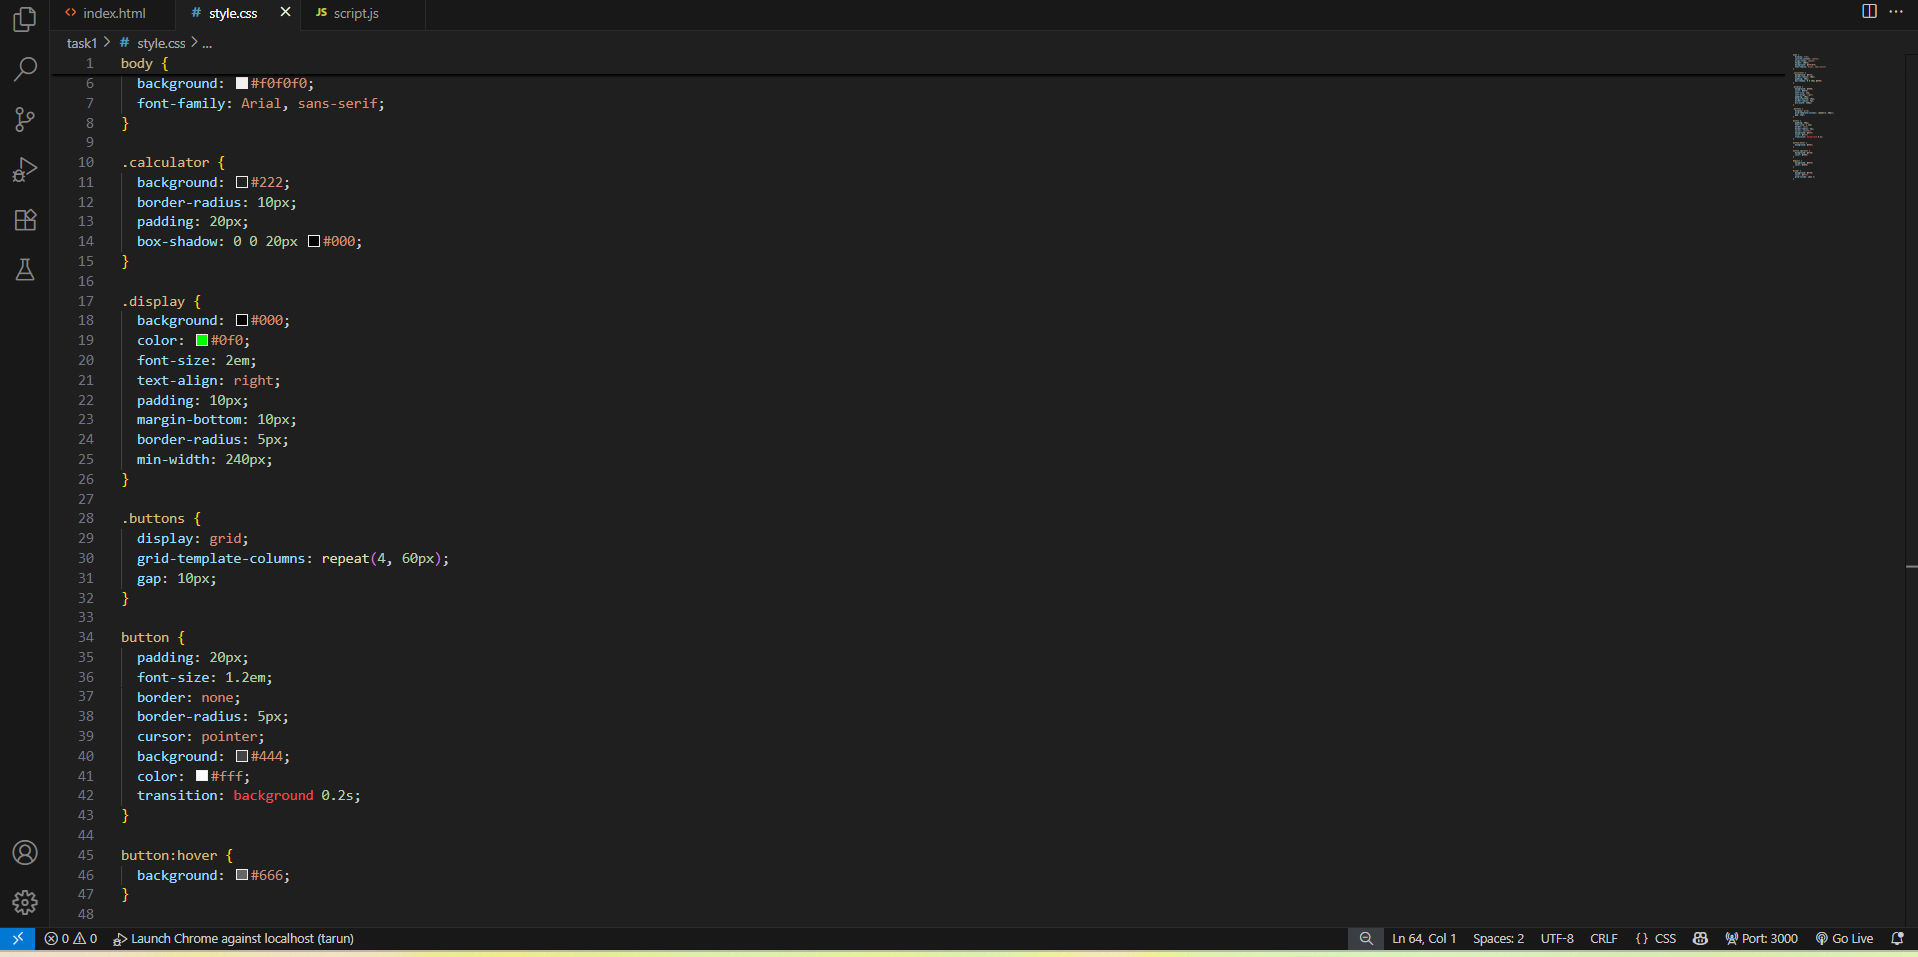
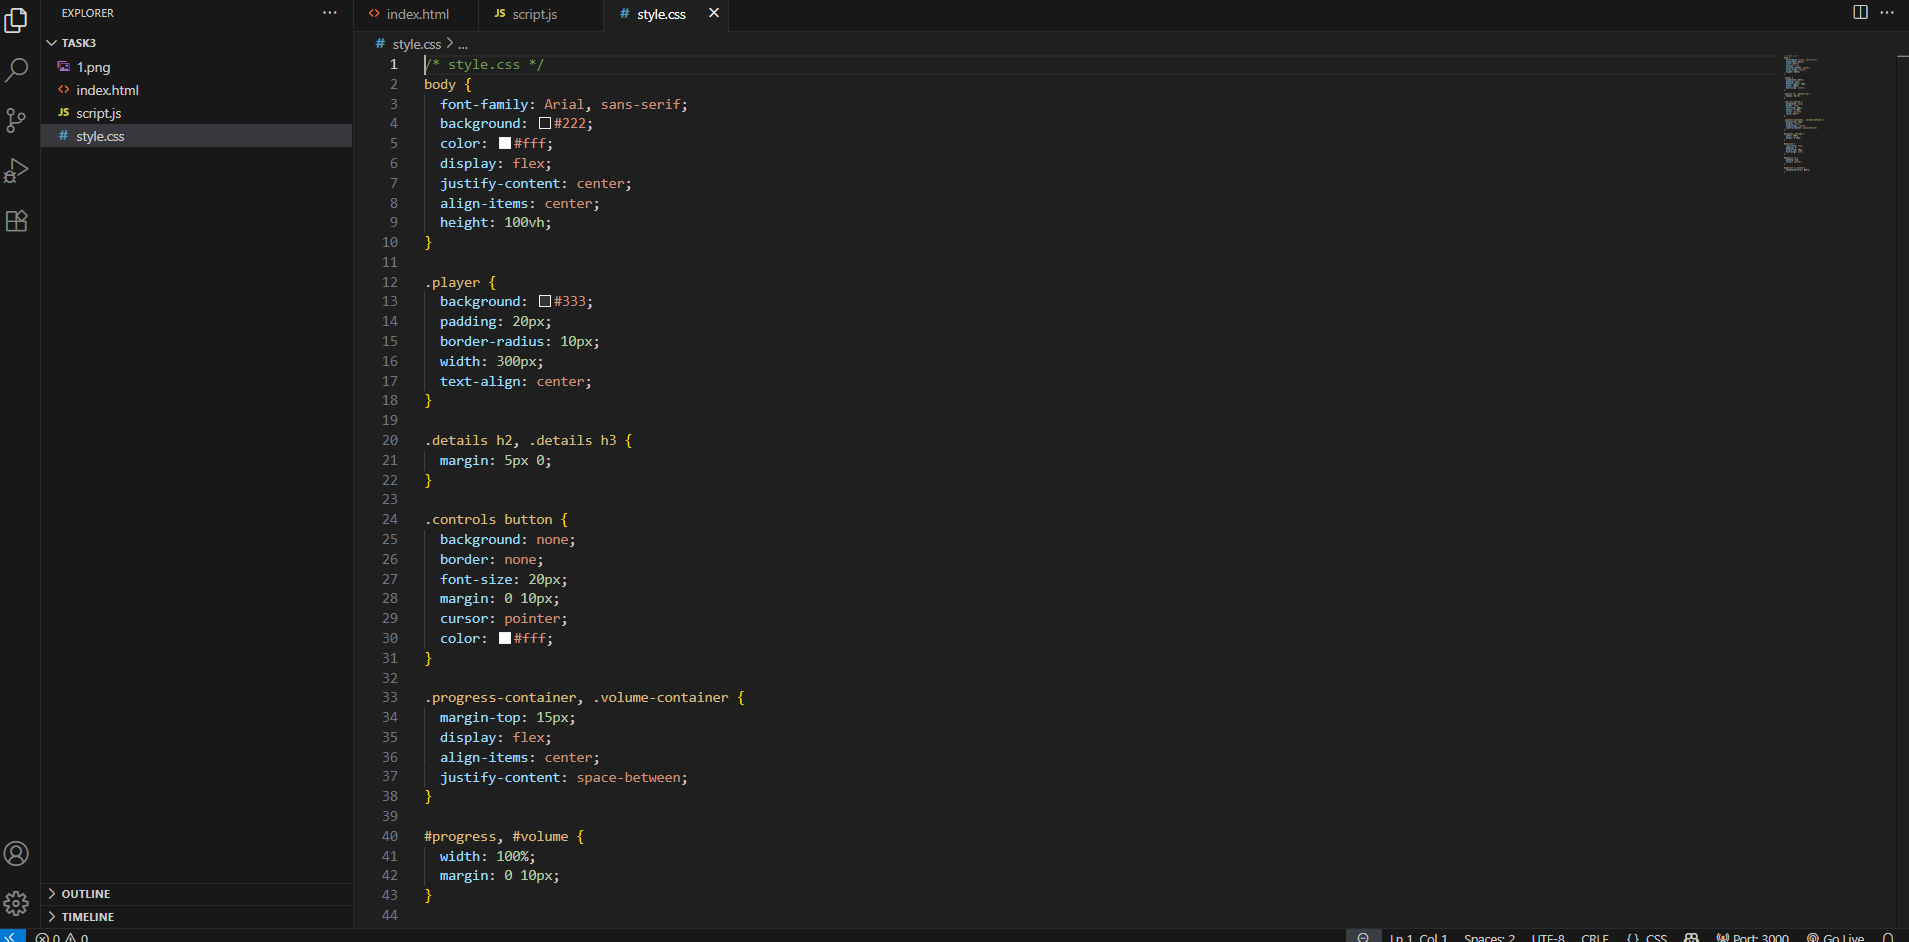
Add files via upload

diff --git a/script.js b/script.js
@@ -1,49 +1,127 @@
-const display = document.getElementById('display');
-const buttons = document.querySelectorAll('button[data-value]');
-const equals = document.getElementById('equals');
-const clear = document.getElementById('clear');
+// script.js
 
-buttons.forEach(button => {
-  button.addEventListener('click', () => {
-    const value = button.getAttribute('data-value');
-    if (display.innerText === '0' && value !== '.') {
-      display.innerText = value;
-    } else {
-      display.innerText += value;
-    }
+const audio = document.getElementById('audio');
+const playBtn = document.getElementById('play');
+const prevBtn = document.getElementById('prev');
+const nextBtn = document.getElementById('next');
+const title = document.getElementById('title');
+const artist = document.getElementById('artist');
+const progress = document.getElementById('progress');
+const volume = document.getElementById('volume');
+const currentTimeEl = document.getElementById('current-time');
+const durationEl = document.getElementById('duration');
+const playlistEl = document.getElementById('playlist');
+
+let songIndex = 0;
+
+const songs = [
+  {
+    title: 'Song 1',
+    artist: 'Artist 1',
+    src: 'songs/song1.mp3'
+  },
+  {
+    title: 'Song 2',
+    artist: 'Artist 2',
+    src: 'songs/song2.mp3'
+  },
+  {
+    title: 'Song 3',
+    artist: 'Artist 3',
+    src: 'songs/song3.mp3'
+  }
+];
+
+// Load song details
+function loadSong(index) {
+  const song = songs[index];
+  title.textContent = song.title;
+  artist.textContent = song.artist;
+  audio.src = song.src;
+  highlightActive(index);
+}
+
+// Play / Pause toggle
+function togglePlay() {
+  if (audio.paused) {
+    audio.play();
+    playBtn.textContent = '⏸';
+  } else {
+    audio.pause();
+    playBtn.textContent = '▶';
+  }
+}
+
+// Next song
+function nextSong() {
+  songIndex = (songIndex + 1) % songs.length;
+  loadSong(songIndex);
+  audio.play();
+}
+
+// Previous song
+function prevSong() {
+  songIndex = (songIndex - 1 + songs.length) % songs.length;
+  loadSong(songIndex);
+  audio.play();
+}
+
+// Update progress
+audio.addEventListener('timeupdate', () => {
+  const progressPercent = (audio.currentTime / audio.duration) * 100;
+  progress.value = progressPercent || 0;
+
+  currentTimeEl.textContent = formatTime(audio.currentTime);
+  durationEl.textContent = formatTime(audio.duration);
+});
+
+// Set progress
+progress.addEventListener('input', () => {
+  audio.currentTime = (progress.value * audio.duration) / 100;
+});
+
+// Volume control
+volume.addEventListener('input', () => {
+  audio.volume = volume.value;
+});
+
+// Format time
+function formatTime(sec) {
+  if (isNaN(sec)) return '0:00';
+  const minutes = Math.floor(sec / 60);
+  const seconds = Math.floor(sec % 60).toString().padStart(2, '0');
+  return `${minutes}:${seconds}`;
+}
+
+// Playlist
+function renderPlaylist() {
+  songs.forEach((song, index) => {
+    const li = document.createElement('li');
+    li.textContent = `${song.title} - ${song.artist}`;
+    li.addEventListener('click', () => {
+      songIndex = index;
+      loadSong(songIndex);
+      audio.play();
+    });
+    playlistEl.appendChild(li);
   });
-});
+}
 
-equals.addEventListener('click', () => {
-  try {
-    display.innerText = eval(display.innerText);
-  } catch {
-    display.innerText = 'Error';
-  }
-});
+function highlightActive(index) {
+  const items = playlistEl.querySelectorAll('li');
+  items.forEach((item, i) => {
+    item.classList.toggle('active', i === index);
+  });
+}
 
-clear.addEventListener('click', () => {
-  display.innerText = '0';
-});
+// Autoplay next
+audio.addEventListener('ended', nextSong);
 
-// BONUS: Keyboard support
-document.addEventListener('keydown', (e) => {
-  const key = e.key;
-  if ('0123456789.+-*/'.includes(key)) {
-    if (display.innerText === '0' && key !== '.') {
-      display.innerText = key;
-    } else {
-      display.innerText += key;
-    }
-  } else if (key === 'Enter') {
-    try {
-      display.innerText = eval(display.innerText);
-    } catch {
-      display.innerText = 'Error';
-    }
-  } else if (key === 'Backspace') {
-    display.innerText = display.innerText.slice(0, -1) || '0';
-  } else if (key === 'Escape') {
-    display.innerText = '0';
-  }
-});
+// Events
+playBtn.addEventListener('click', togglePlay);
+nextBtn.addEventListener('click', nextSong);
+prevBtn.addEventListener('click', prevSong);
+
+// Init
+loadSong(songIndex);
+renderPlaylist();

diff --git a/index.html b/index.html
@@ -1,37 +1,44 @@
+<!-- index.html -->
 <!DOCTYPE html>
 <html lang="en">
 <head>
   <meta charset="UTF-8" />
-  <title>Basic Calculator</title>
-  <link rel="stylesheet" href="style.css">
+  <meta name="viewport" content="width=device-width, initial-scale=1.0" />
+  <title>Music Player</title>
+  <link rel="stylesheet" href="style.css" />
 </head>
 <body>
-  <div class="calculator">
-    <div class="display" id="display">0</div>
-    <div class="buttons">
-      <button data-value="7">7</button>
-      <button data-value="8">8</button>
-      <button data-value="9">9</button>
-      <button data-value="/" class="operator">÷</button>
 
-      <button data-value="4">4</button>
-      <button data-value="5">5</button>
-      <button data-value="6">6</button>
-      <button data-value="*" class="operator">×</button>
-
-      <button data-value="1">1</button>
-      <button data-value="2">2</button>
-      <button data-value="3">3</button>
-      <button data-value="-" class="operator">−</button>
-
-      <button data-value="0">0</button>
-      <button data-value=".">.</button>
-      <button id="equals">=</button>
-      <button data-value="+" class="operator">+</button>
-
-      <button id="clear">C</button>
+  <div class="player">
+    <div class="details">
+      <h2 id="title">Title</h2>
+      <h3 id="artist">Artist</h3>
     </div>
+
+    <audio id="audio" src=""></audio>
+
+    <div class="controls">
+      <button id="prev">⏮</button>
+      <button id="play">▶</button>
+      <button id="next">⏭</button>
+    </div>
+
+    <div class="progress-container">
+      <span id="current-time">0:00</span>
+      <input type="range" id="progress" value="0" />
+      <span id="duration">0:00</span>
+    </div>
+
+    <div class="volume-container">
+      🔊 <input type="range" id="volume" min="0" max="1" step="0.01" />
+    </div>
+
+    <ul id="playlist">
+      <!-- Playlist items injected here -->
+    </ul>
   </div>
+
   <script src="script.js"></script>
 </body>
 </html>
+

diff --git a/style.css b/style.css
@@ -1,63 +1,59 @@
+/* style.css */
 body {
+  font-family: Arial, sans-serif;
+  background: #222;
+  color: #fff;
   display: flex;
   justify-content: center;
   align-items: center;
   height: 100vh;
-  background: #f0f0f0;
-  font-family: Arial, sans-serif;
 }
 
-.calculator {
-  background: #222;
+.player {
+  background: #333;
+  padding: 20px;
   border-radius: 10px;
-  padding: 20px;
-  box-shadow: 0 0 20px #000;
+  width: 300px;
+  text-align: center;
 }
 
-.display {
-  background: #000;
-  color: #0f0;
-  font-size: 2em;
-  text-align: right;
-  padding: 10px;
-  margin-bottom: 10px;
-  border-radius: 5px;
-  min-width: 240px;
+.details h2, .details h3 {
+  margin: 5px 0;
 }
 
-.buttons {
-  display: grid;
-  grid-template-columns: repeat(4, 60px);
-  gap: 10px;
-}
-
-button {
-  padding: 20px;
-  font-size: 1.2em;
+.controls button {
+  background: none;
   border: none;
-  border-radius: 5px;
+  font-size: 20px;
+  margin: 0 10px;
   cursor: pointer;
-  background: #444;
   color: #fff;
-  transition: background 0.2s;
 }
 
-button:hover {
-  background: #666;
+.progress-container, .volume-container {
+  margin-top: 15px;
+  display: flex;
+  align-items: center;
+  justify-content: space-between;
 }
 
-button.operator {
-  background: #f90;
-  color: #000;
+#progress, #volume {
+  width: 100%;
+  margin: 0 10px;
 }
 
-#equals {
-  background: #0f0;
-  color: #000;
+#playlist {
+  list-style: none;
+  padding: 0;
+  margin-top: 20px;
+  text-align: left;
 }
 
-#clear {
-  background: #f00;
-  color: #fff;
-  grid-column: span 2;
+#playlist li {
+  padding: 5px;
+  cursor: pointer;
+}
+
+#playlist li.active {
+  background-color: #444;
 }
